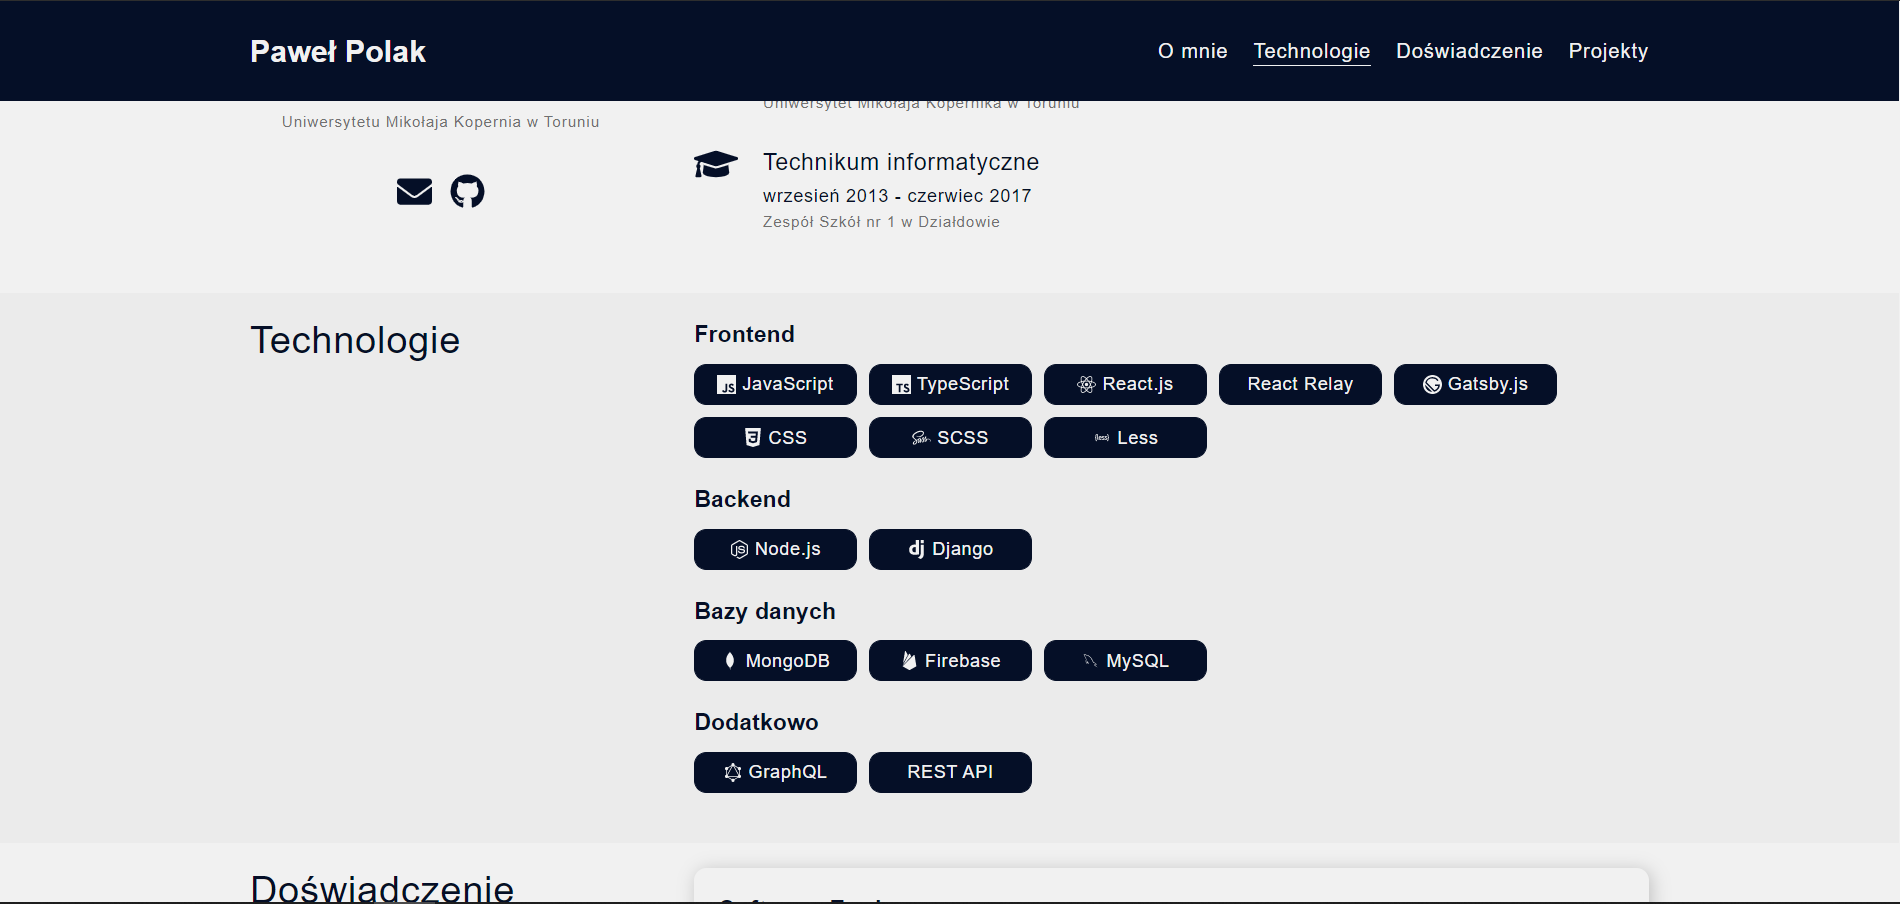
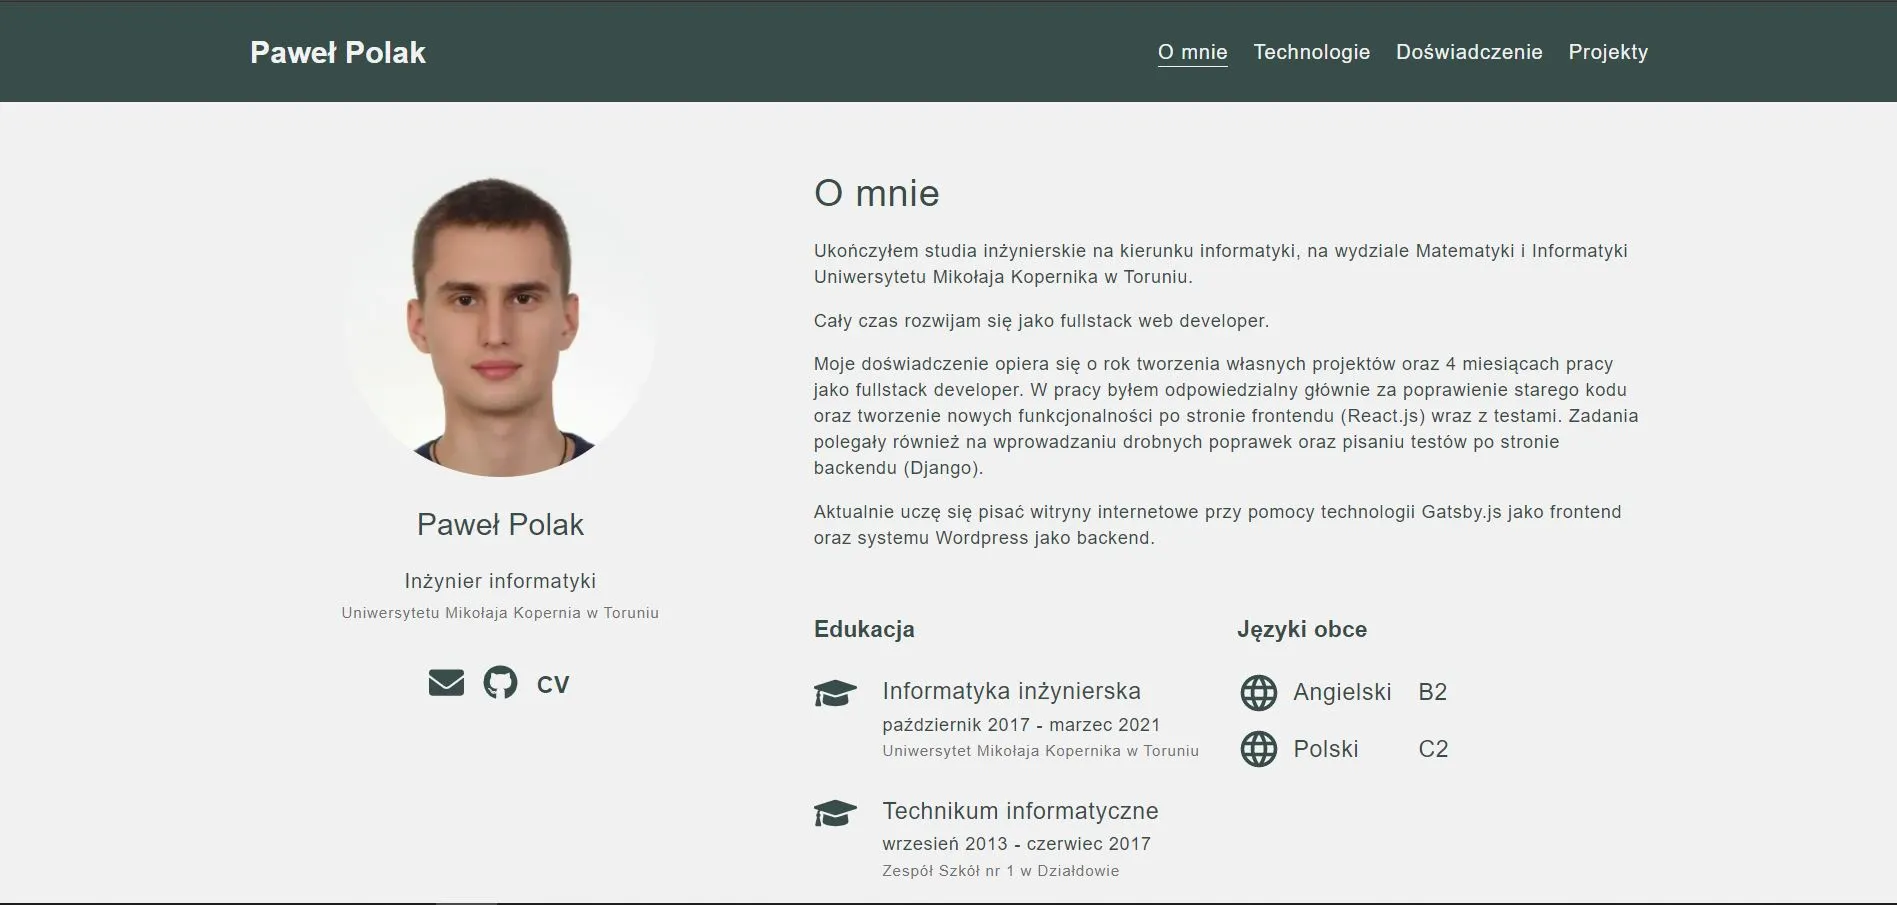
main color change

diff --git a/src/styles/colors.scss b/src/styles/colors.scss
@@ -1,4 +1,4 @@
-$primary: #050f27; // Main Primary color */
+$primary: #384d49; // #050f27; <- old one // Main Primary color */
 $secondary: #f1f1f1;
 $additional: #707070;
 $even-section-bg: #ebebeb;
